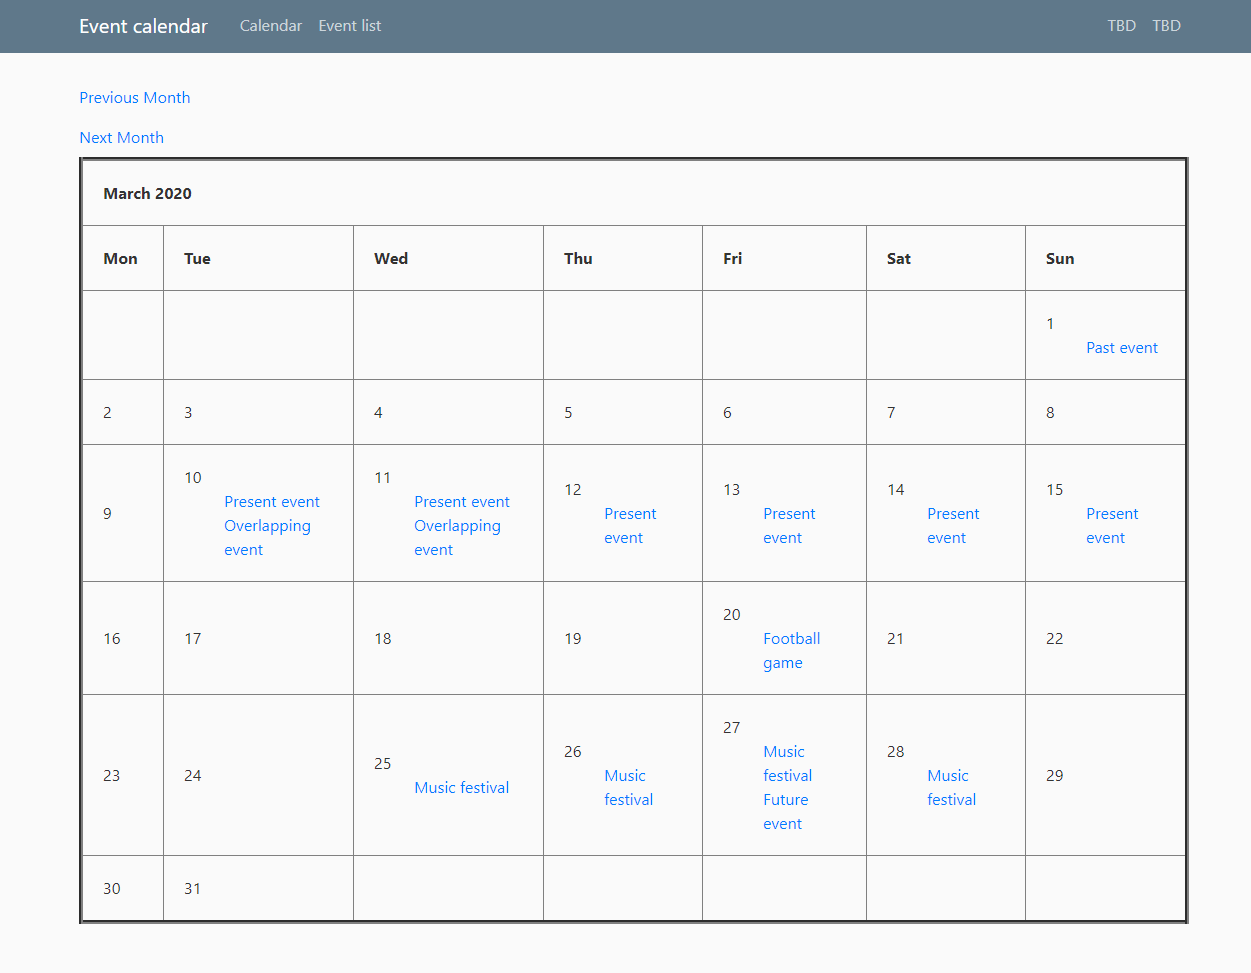
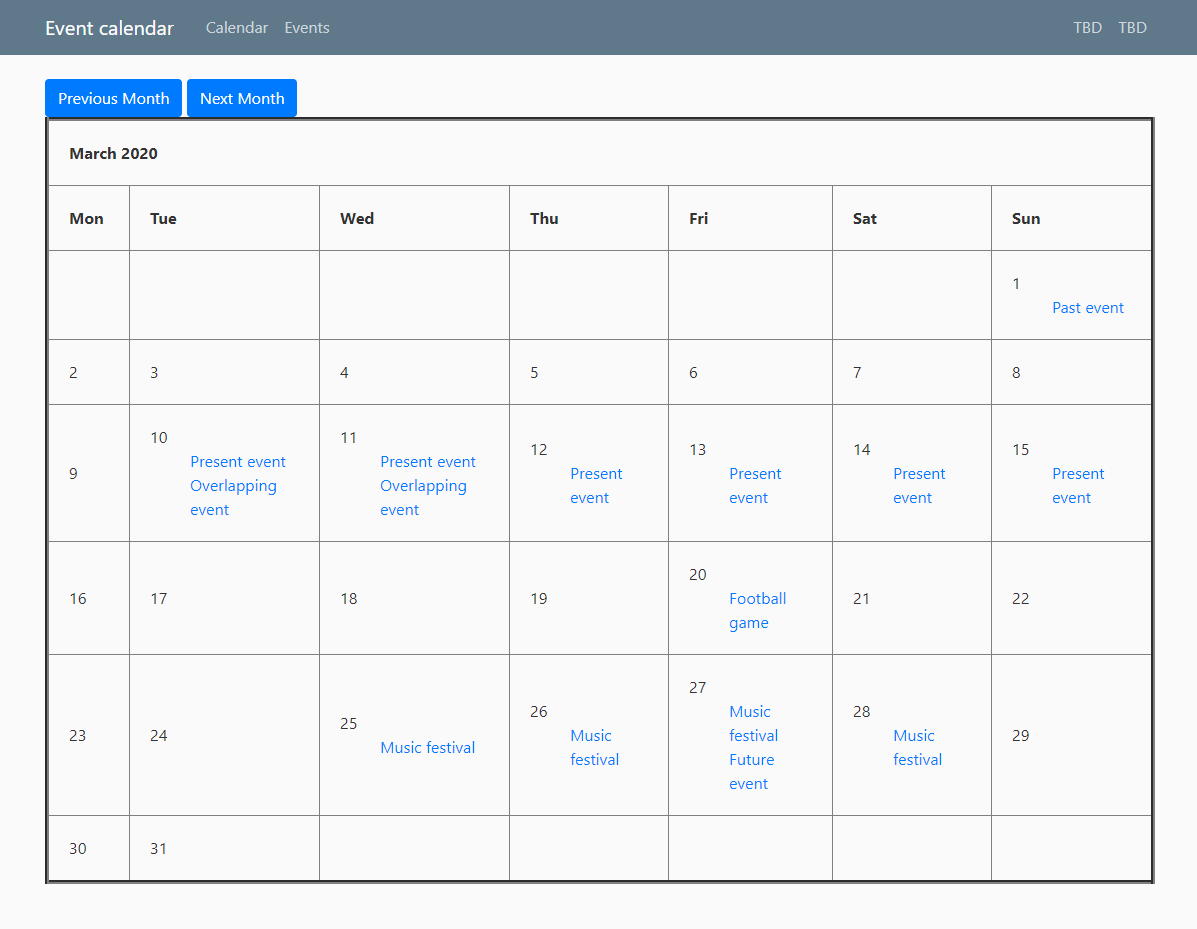
Readme and detail template update.

diff --git a/event_calendar/events/templates/events/detail.html b/event_calendar/events/templates/events/detail.html
@@ -9,7 +9,6 @@
     <br>Status of event: {{event.status}}
 </p>
 
-<br><a href="{% url 'events:Calendar' %}">{{ "Back to calendar" }}</a>
-<br><a href="{% url 'events:All events' %}">{{ "See all events" }}</a>
+<a class="btn btn-secondary" href="{{request.META.HTTP_REFERER}}" role="button">Go back</a>
 
 {% endblock content %}

diff --git a/README.md b/README.md
@@ -6,6 +6,10 @@ Calendar page:
 
 ![calendar](/img/calendar.PNG)
 
+Event list page:
+
+![calendar](/img/events.PNG)
+
 Detail page:
 
 ![calendar](/img/detail.PNG)
@@ -18,6 +22,7 @@ This version includes:
 ## Technologies
 * python 3.8.0
 	* Django 3.0.4
+* Bootstrap 4
 
 ## TODO
 List of features ready and TODOs for future development
